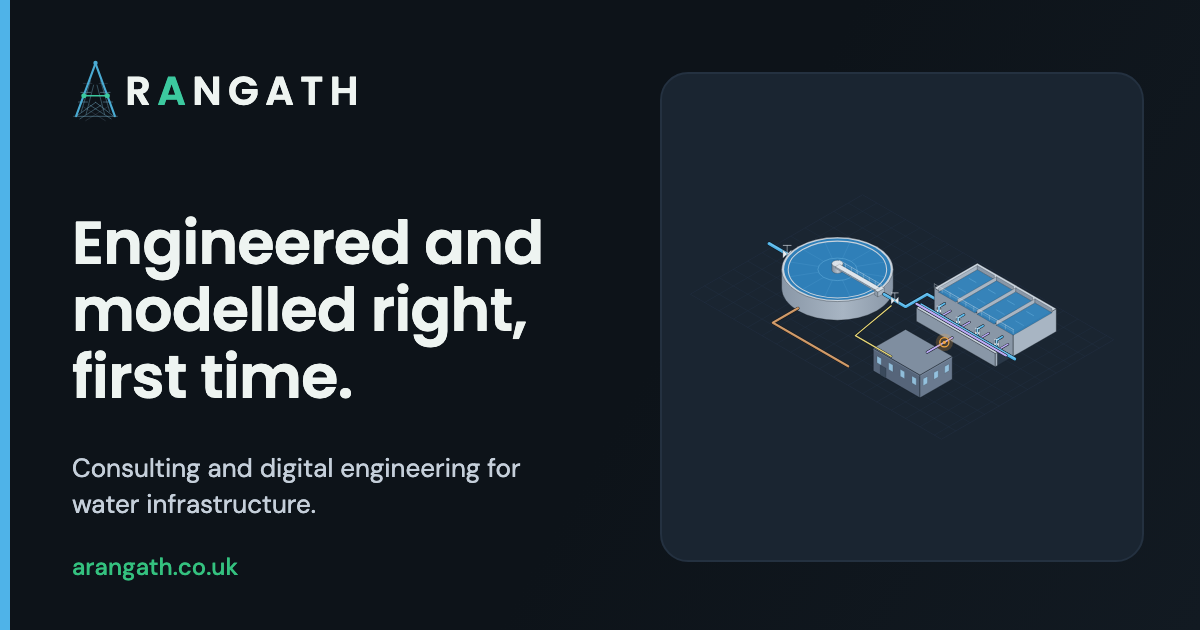
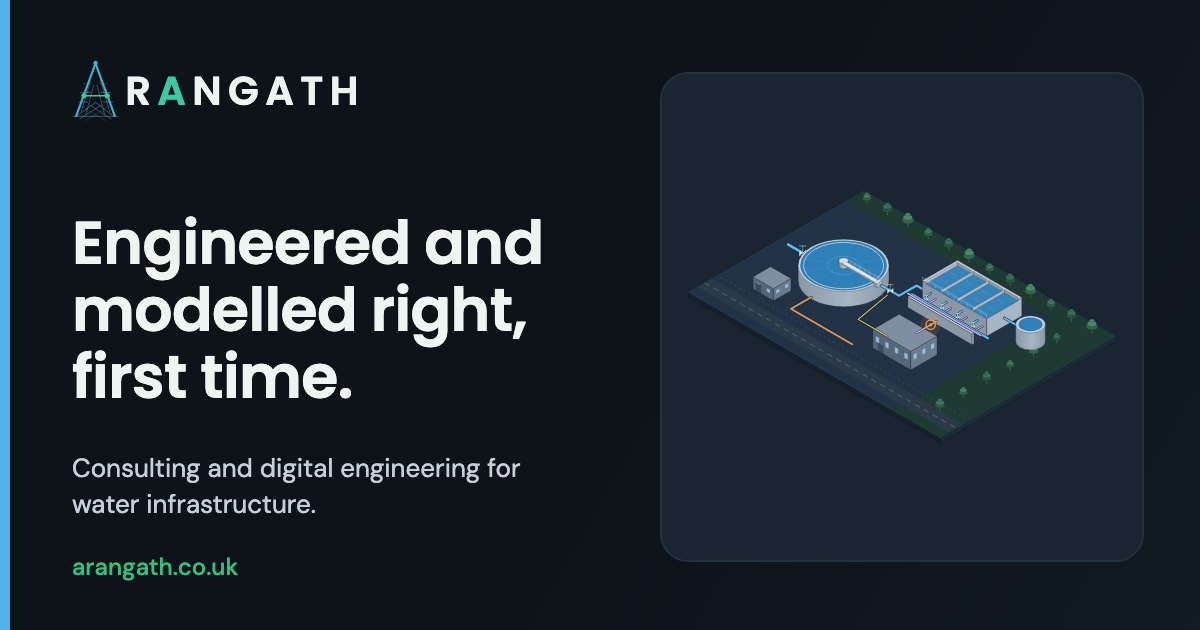
Richer hero site scene (trees, road, lawn, tank, slab base), glow and blueprint grid panel, blue eyebrows

diff --git a/src/css/site.css b/src/css/site.css
@@ -45,7 +45,7 @@ p { color: var(--text-2); }
 .wrap { max-width: 1200px; margin: 0 auto; padding: 0 24px; }
 .section { padding: 96px 0; }
 .section.alt { background: var(--bg-alt); }
-.eyebrow { font-family: var(--font-body); font-weight: 700; font-size: 14px; letter-spacing: 0.12em; text-transform: uppercase; color: var(--green); margin-bottom: 16px; }
+.eyebrow { font-family: var(--font-body); font-weight: 700; font-size: 14px; letter-spacing: 0.12em; text-transform: uppercase; color: var(--blue); margin-bottom: 16px; }
 .eyebrow.blue { color: var(--blue); }
 .lede { font-size: 19px; color: var(--text-2); max-width: 640px; }
 .section-head { max-width: 720px; margin-bottom: 48px; }
@@ -361,7 +361,7 @@ figcaption { font-size: 14px; color: var(--text-3); margin-top: 10px; }
   .page-head { padding: 48px 0 40px; }
 }
 
-.hero-panel { background: radial-gradient(ellipse at 60% 40%, #24374A 0%, #1A2531 55%, #141D27 100%); position: relative; overflow: hidden; padding: 16px; }
-.hero-panel::before { content: ''; position: absolute; inset: 0; background-image: radial-gradient(#3A4E63 1px, transparent 1.2px); background-size: 22px 22px; opacity: .45; -webkit-mask-image: radial-gradient(ellipse at center, #000 30%, transparent 75%); mask-image: radial-gradient(ellipse at center, #000 30%, transparent 75%); }
-.hero-panel img { position: relative; transform: translateX(-3%) scale(1.08); }
+.hero-panel { background: radial-gradient(circle at 78% 12%, rgba(79,179,232,.26), transparent 55%), radial-gradient(circle at 8% 92%, rgba(60,201,159,.14), transparent 50%), #131C26; border-color: #2B3D52; box-shadow: inset 0 0 0 1px rgba(79,179,232,.12), 0 24px 60px rgba(0,0,0,.35); position: relative; overflow: hidden; padding: 12px; }
+.hero-panel::before { content: ''; position: absolute; inset: 0; background-image: linear-gradient(rgba(79,179,232,.10) 1px, transparent 1px), linear-gradient(90deg, rgba(79,179,232,.10) 1px, transparent 1px); background-size: 34px 34px; -webkit-mask-image: radial-gradient(ellipse at 55% 45%, #000 25%, transparent 78%); mask-image: radial-gradient(ellipse at 55% 45%, #000 25%, transparent 78%); }
+.hero-panel img { position: relative; transform: scale(1.03); }
 .eyebrow.blue { letter-spacing: .09em; }

diff --git a/tools/illustrations.py b/tools/illustrations.py
@@ -71,8 +71,11 @@ class S:
         s.poly([(x + w, y, z), (x + w, y + d, z), (x + w, y + d, z + h), (x + w, y, z + h)], r, sw=sw)
         s.poly([(x, y, z + h), (x + w, y, z + h), (x + w, y + d, z + h), (x, y + d, z + h)], t, sw=sw)
 
-    def ground(s, x0, y0, x1, y1, step=4):
-        s.poly([(x0, y0, 0), (x1, y0, 0), (x1, y1, 0), (x0, y1, 0)], GROUND, stroke=GRID, sw=0.1)
+    def ground(s, x0, y0, x1, y1, step=4, fill=None, edge=None, slab=0):
+        if slab:  # visible thickness, so the site reads as a model base rather than a flat floor
+            s.poly([(x0, y1, -slab), (x1, y1, -slab), (x1, y1, 0), (x0, y1, 0)], "#16202B", stroke=OUT, sw=0.08)
+            s.poly([(x1, y0, -slab), (x1, y1, -slab), (x1, y1, 0), (x1, y0, 0)], "#1D2A38", stroke=OUT, sw=0.08)
+        s.poly([(x0, y0, 0), (x1, y0, 0), (x1, y1, 0), (x0, y1, 0)], fill or GROUND, stroke=edge or GRID, sw=0.1)
         x = x0 + step
         while x < x1:
             s.line([(x, y0, 0), (x, y1, 0)], GRID, 0.08)
@@ -181,6 +184,13 @@ class S:
             # door
             s.poly([(x + w * 0.15, y + d, z), (x + w * 0.15 + 1.6, y + d, z), (x + w * 0.15 + 1.6, y + d, z + 2.4), (x + w * 0.15, y + d, z + 2.4)], "#3B4A5C", sw=0.04)
 
+    def tree(s, x, y, h=3.0, tone=0):
+        a, b = (("#2F5D4A", "#3F7A61"), ("#2A5442", "#37705A"), ("#34664F", "#478A6C"))[tone % 3]
+        s.line([(x, y, 0), (x, y, h * 0.45)], "#6B5A48", 0.25)
+        s.ell(x, y, h * 0.42, h * 0.32, a, stroke=OUT, sw=0.05)
+        s.ell(x, y, h * 0.62, h * 0.26, b, stroke=OUT, sw=0.05)
+        s.ell(x, y, h * 0.82, h * 0.15, b, stroke=OUT, sw=0.05)
+
     def clash(s, x, y, z, label=None, sub=None, scale=1.0, status="Resolved"):
         (px, py) = P(x, y, z)
         r = 1.1 * scale
@@ -243,7 +253,16 @@ def filter_block(s, x, y, cells=4):
 
 def hero():
     s = S()
-    s.ground(-4, -4, 66, 44, step=4)
+    s.ground(-8, -8, 78, 52, step=4, fill="#223247", edge="#3F5A78", slab=1.6)
+    # lawns and a perimeter road, so the ground has some life
+    s.poly([(-8, -8, 0.01), (78, -8, 0.01), (78, -2, 0.01), (-8, -2, 0.01)], "#1F3A33", stroke="none")
+    s.poly([(62, -2, 0.01), (78, -2, 0.01), (78, 52, 0.01), (62, 52, 0.01)], "#1F3A33", stroke="none")
+    s.poly([(-8, 44, 0.02), (78, 44, 0.02), (78, 49, 0.02), (-8, 49, 0.02)], "#2B3949", stroke="none")
+    s.line([(-8, 46.5, 0.03), (78, 46.5, 0.03)], "#8997A7", 0.14, dash="1.6 1.4", cap="butt")
+    for k, tx in enumerate(range(-4, 76, 7)):
+        s.tree(tx, -5, 3.4 + (k % 3) * 0.5, tone=k)
+    for k, ty in enumerate(range(4, 46, 8)):
+        s.tree(70, ty, 3.2 + (k % 2) * 0.6, tone=k + 1)
     # raw water inlet
     s.pipe([(-4, 22, 1.2), (4, 22, 1.2)], P_RAW, w=0.8, valves=[(1, 22, 1.2)])
     s.clarifier(15, 22, 11, 4.5)
@@ -252,10 +271,17 @@ def hero():
     # outlet to filters
     s.pipe([(26, 20, 3.0), (32, 20, 3.0), (32, 14, 3.0), (34, 14, 3.0)], P_RAW, w=0.7, valves=[(29, 20, 3.0)])
     filter_block(s, 34, 2, cells=4)
+    # clear water tank and treated-water line
+    s.pipe([(56, 8, 2.4), (62, 8, 2.4)], P_RAW, w=0.6)
+    s.cyl(65, 8, 0, 3.6, 5.0)
+    s.ell(65, 8, 5.0, 2.9, WAT)
     # chemical house
     s.building(40, 28, 0, 13, 9, 5.5)
     s.pipe([(40, 32, 1.0), (30, 32, 1.0), (30, 22, 3.2)], P_DOSE, w=0.3)
     s.pipe([(46, 28, 3.0), (46, 21, 3.0)], P_AIR, w=0.45)
+    # small control building and site fence along the road
+    s.building(2, 34, 0, 7, 6, 3.6)
+    s.line([(-7, 42, 0), (77, 42, 0)], "#6F8196", 0.12, dash="0.4 1.2", cap="butt")
     s.clash(46, 23.2, 3.0, "Clash 014", "Air main vs gallery wall", scale=1.25)
     return s
 
